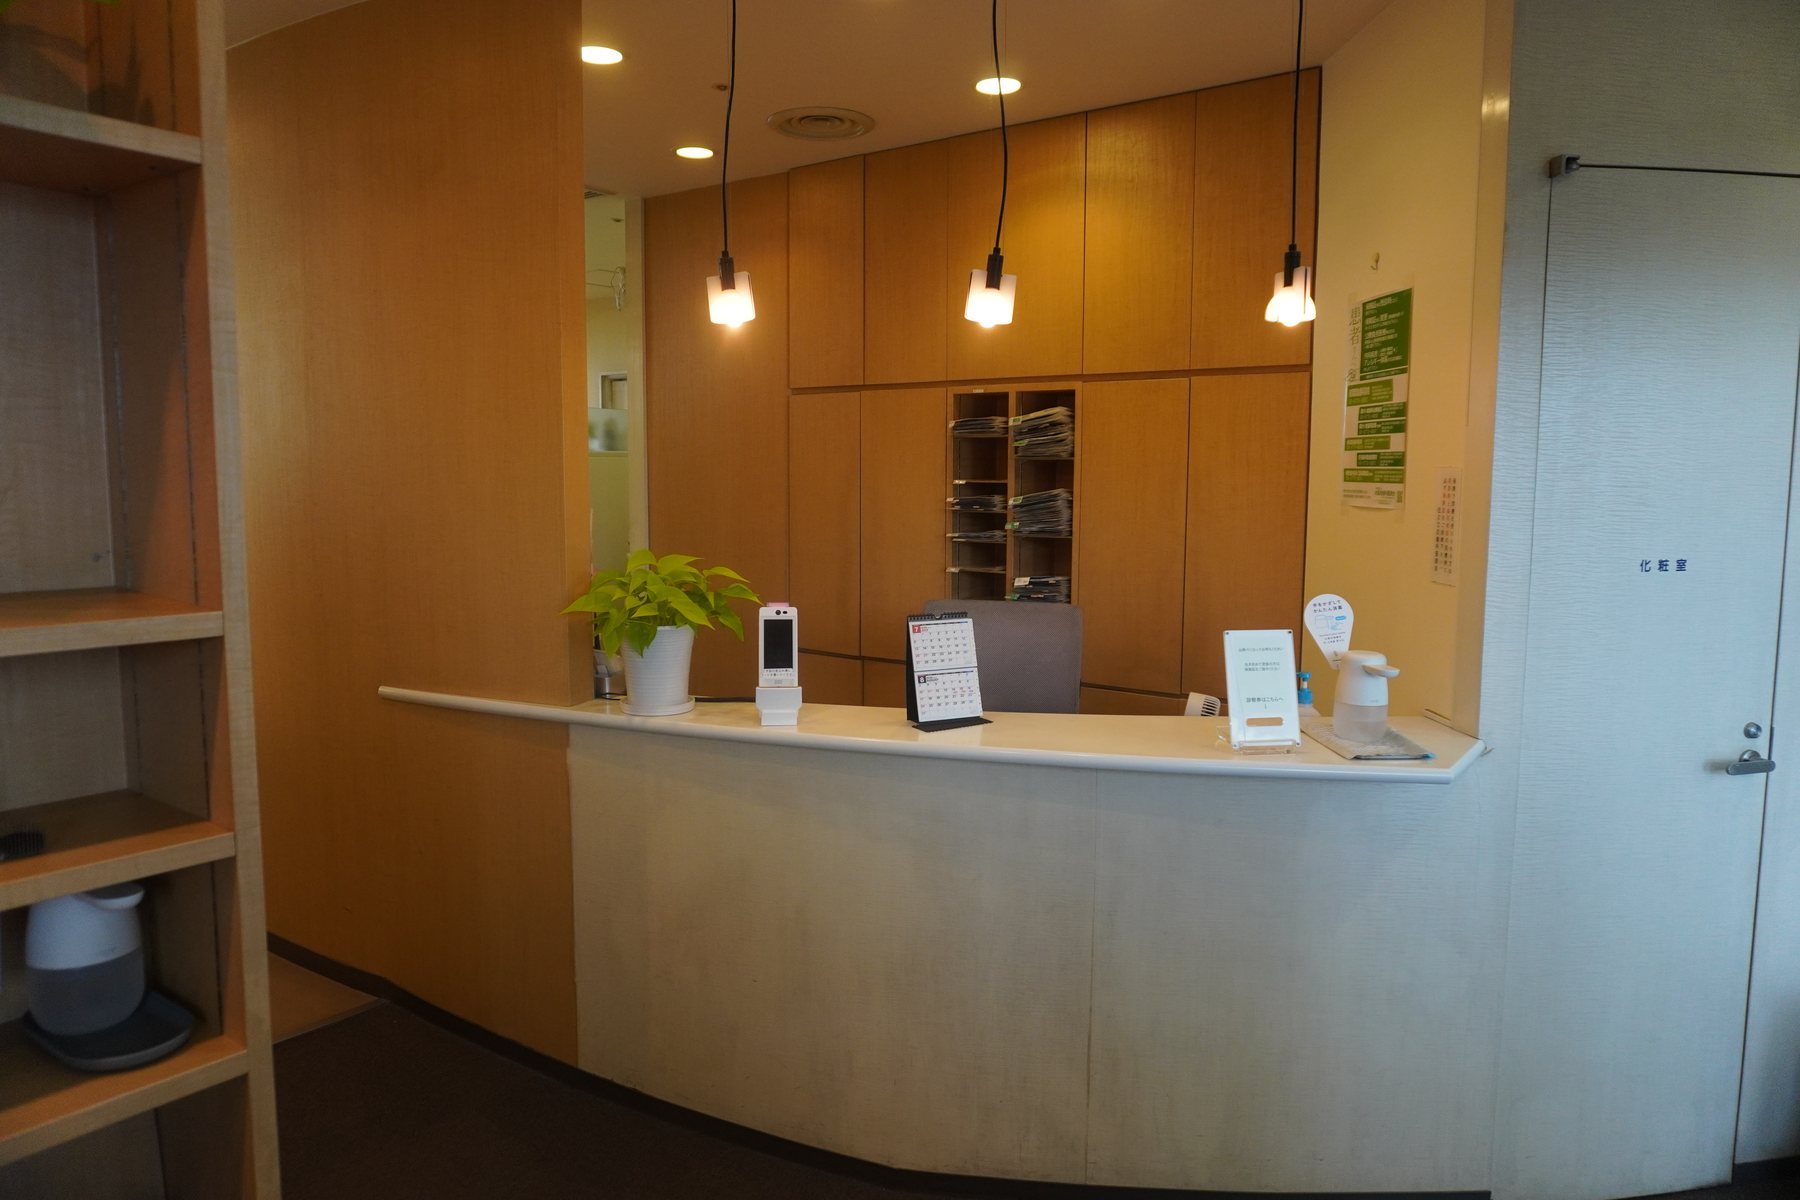
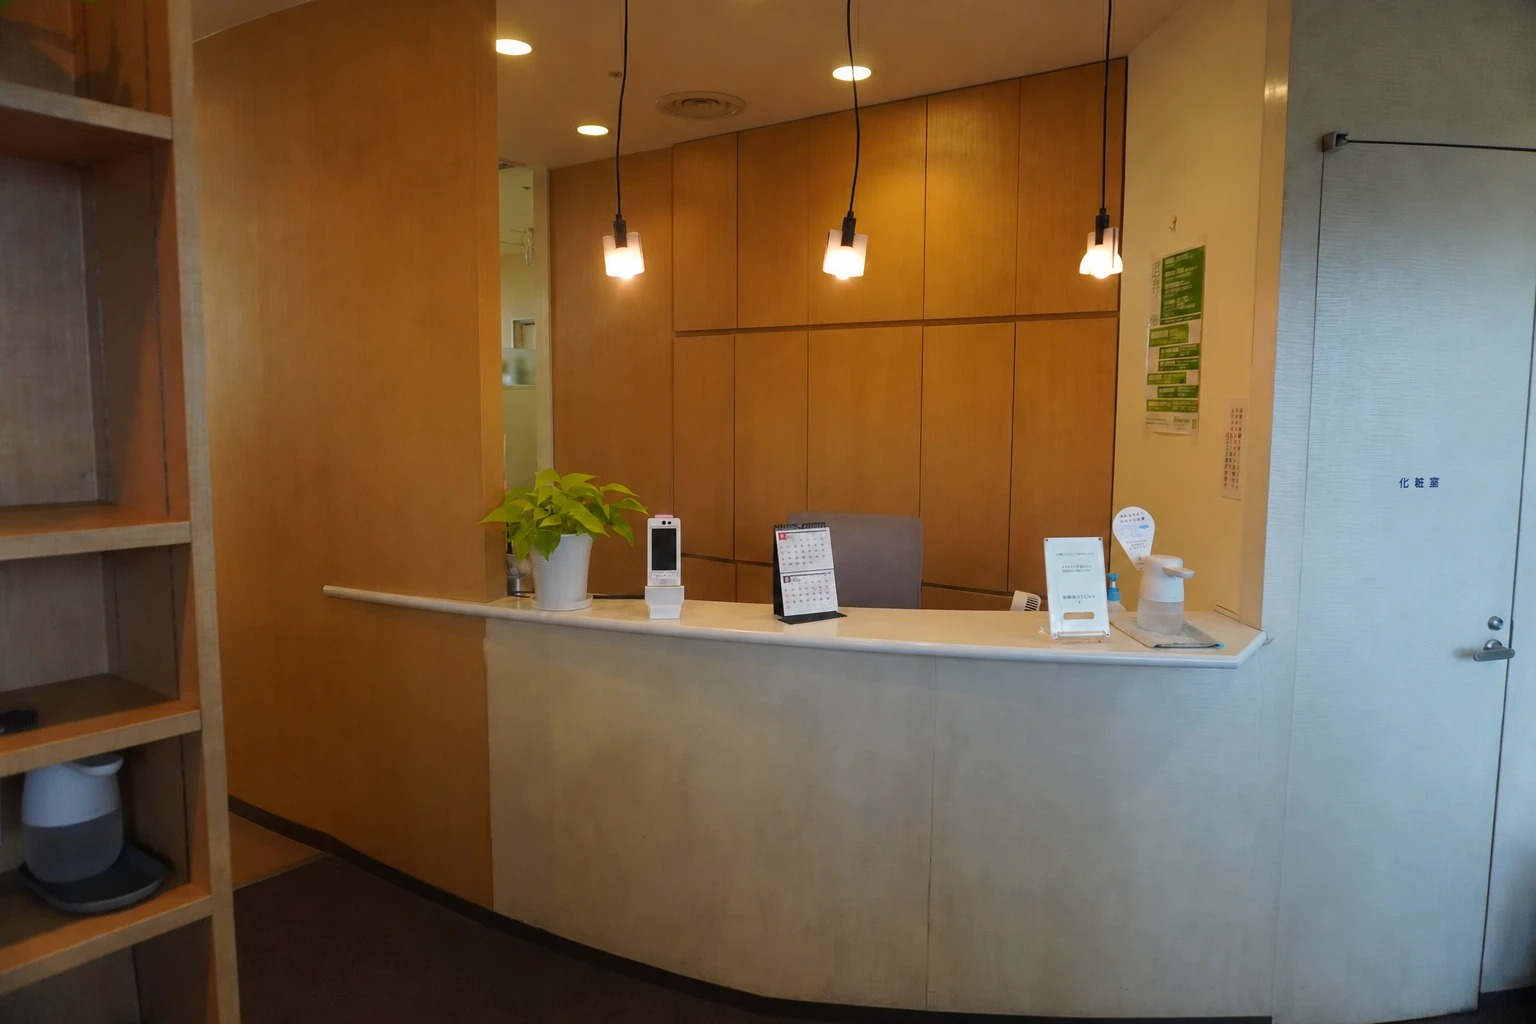
Update reception hero photo to the wider angle client sent

Changed region(s): [[0.5, 0.3125, 0.625, 0.5312]]

diff --git a/index.html b/index.html
@@ -21,7 +21,7 @@
 <link rel="preconnect" href="https://fonts.googleapis.com">
 <link rel="preconnect" href="https://fonts.gstatic.com" crossorigin>
 <link href="https://fonts.googleapis.com/css2?family=Jost:wght@400;500;600&family=Shippori+Mincho:wght@500;600;700&family=Zen+Kaku+Gothic+New:wght@400;500;700&display=swap" rel="stylesheet">
-<link rel="stylesheet" href="assets/css/style.css?v=1788683968">
+<link rel="stylesheet" href="assets/css/style.css?v=1788684398">
 <script type="application/ld+json">
 {"@context":"https://schema.org","@type":"Dentist","name":"中村歯科医院","alternateName":"Nakamura Dental Office",
 "url":"https://nakamura-dental.com/","image":"https://nakamura-dental.com/assets/img/hero-reception.jpg","telephone":"+81-6-6615-6180",
@@ -58,7 +58,7 @@
 <section class="hero" id="top">
   <div class="hero-slides"><div class="slide on"><img src="assets/img/hero-shelf.jpg" alt="中村歯科医院の入口（大阪府咲洲庁舎3F）" style="object-position:center 46%"></div><div class="slide"><img src="assets/img/treatment-03.jpg" alt="中村歯科医院の診療風景" style="object-position:center center" loading="lazy"></div><div class="slide"><img src="assets/img/reception-wide.jpg" alt="中村歯科医院の受付" style="object-position:center center" loading="lazy"></div><div class="slide"><img src="assets/img/instruments.jpg" alt="器具のメンテナンスを行うスタッフ" style="object-position:center center" loading="lazy"></div></div>
   <!-- 街並みシルエット：空を抜いて写真と重ねる -->
-  <div class="hero-skyline" data-tram="assets/img/skyline-silhouette.svg?v=1788683968" aria-hidden="true"></div>
+  <div class="hero-skyline" data-tram="assets/img/skyline-silhouette.svg?v=1788684398" aria-hidden="true"></div>
   <div class="hero-dots"><button aria-label="スライド1" class="on"></button><button aria-label="スライド2"></button><button aria-label="スライド3"></button><button aria-label="スライド4"></button></div>
   <div class="hero-copy">
     <h1 class="hero-vert">あなたの笑顔のために</h1>
@@ -198,6 +198,6 @@
     </div>
   </div>
 </footer>
-<script src="assets/js/main.js?v=1788683968"></script>
+<script src="assets/js/main.js?v=1788684398"></script>
 </body>
 </html>

diff --git a/service-aesthetic.html b/service-aesthetic.html
@@ -21,7 +21,7 @@
 <link rel="preconnect" href="https://fonts.googleapis.com">
 <link rel="preconnect" href="https://fonts.gstatic.com" crossorigin>
 <link href="https://fonts.googleapis.com/css2?family=Jost:wght@400;500;600&family=Shippori+Mincho:wght@500;600;700&family=Zen+Kaku+Gothic+New:wght@400;500;700&display=swap" rel="stylesheet">
-<link rel="stylesheet" href="assets/css/style.css?v=1788683968">
+<link rel="stylesheet" href="assets/css/style.css?v=1788684398">
 </head>
 <body>
 <header class="site-header" id="header">
@@ -110,7 +110,7 @@
   </div>
 </section>
 <section class="tramband">
-  <div class="tram-scene" data-tram="assets/img/tram-scene.svg?v=1788683968" aria-hidden="true"></div>
+  <div class="tram-scene" data-tram="assets/img/tram-scene.svg?v=1788684398" aria-hidden="true"></div>
 </section>
 <section class="cta">
   <div class="wrap">
@@ -137,6 +137,6 @@
     </div>
   </div>
 </footer>
-<script src="assets/js/main.js?v=1788683968"></script>
+<script src="assets/js/main.js?v=1788684398"></script>
 </body>
 </html>

diff --git a/service.html b/service.html
@@ -21,7 +21,7 @@
 <link rel="preconnect" href="https://fonts.googleapis.com">
 <link rel="preconnect" href="https://fonts.gstatic.com" crossorigin>
 <link href="https://fonts.googleapis.com/css2?family=Jost:wght@400;500;600&family=Shippori+Mincho:wght@500;600;700&family=Zen+Kaku+Gothic+New:wght@400;500;700&display=swap" rel="stylesheet">
-<link rel="stylesheet" href="assets/css/style.css?v=1788683968">
+<link rel="stylesheet" href="assets/css/style.css?v=1788684398">
 </head>
 <body>
 <header class="site-header" id="header">
@@ -116,7 +116,7 @@
   </div>
 </section>
 <section class="tramband">
-  <div class="tram-scene" data-tram="assets/img/tram-scene.svg?v=1788683968" aria-hidden="true"></div>
+  <div class="tram-scene" data-tram="assets/img/tram-scene.svg?v=1788684398" aria-hidden="true"></div>
 </section>
 <section class="cta">
   <div class="wrap">
@@ -143,6 +143,6 @@
     </div>
   </div>
 </footer>
-<script src="assets/js/main.js?v=1788683968"></script>
+<script src="assets/js/main.js?v=1788684398"></script>
 </body>
 </html>

diff --git a/price.html b/price.html
@@ -21,7 +21,7 @@
 <link rel="preconnect" href="https://fonts.googleapis.com">
 <link rel="preconnect" href="https://fonts.gstatic.com" crossorigin>
 <link href="https://fonts.googleapis.com/css2?family=Jost:wght@400;500;600&family=Shippori+Mincho:wght@500;600;700&family=Zen+Kaku+Gothic+New:wght@400;500;700&display=swap" rel="stylesheet">
-<link rel="stylesheet" href="assets/css/style.css?v=1788683968">
+<link rel="stylesheet" href="assets/css/style.css?v=1788684398">
 </head>
 <body>
 <header class="site-header" id="header">
@@ -84,7 +84,7 @@
   </div>
 </section>
 <section class="tramband">
-  <div class="tram-scene" data-tram="assets/img/tram-scene.svg?v=1788683968" aria-hidden="true"></div>
+  <div class="tram-scene" data-tram="assets/img/tram-scene.svg?v=1788684398" aria-hidden="true"></div>
 </section>
 <section class="cta">
   <div class="wrap">
@@ -111,6 +111,6 @@
     </div>
   </div>
 </footer>
-<script src="assets/js/main.js?v=1788683968"></script>
+<script src="assets/js/main.js?v=1788684398"></script>
 </body>
 </html>

diff --git a/service-denture.html b/service-denture.html
@@ -21,7 +21,7 @@
 <link rel="preconnect" href="https://fonts.googleapis.com">
 <link rel="preconnect" href="https://fonts.gstatic.com" crossorigin>
 <link href="https://fonts.googleapis.com/css2?family=Jost:wght@400;500;600&family=Shippori+Mincho:wght@500;600;700&family=Zen+Kaku+Gothic+New:wght@400;500;700&display=swap" rel="stylesheet">
-<link rel="stylesheet" href="assets/css/style.css?v=1788683968">
+<link rel="stylesheet" href="assets/css/style.css?v=1788684398">
 </head>
 <body>
 <header class="site-header" id="header">
@@ -86,7 +86,7 @@
   </div>
 </section>
 <section class="tramband">
-  <div class="tram-scene" data-tram="assets/img/tram-scene.svg?v=1788683968" aria-hidden="true"></div>
+  <div class="tram-scene" data-tram="assets/img/tram-scene.svg?v=1788684398" aria-hidden="true"></div>
 </section>
 <section class="cta">
   <div class="wrap">
@@ -113,6 +113,6 @@
     </div>
   </div>
 </footer>
-<script src="assets/js/main.js?v=1788683968"></script>
+<script src="assets/js/main.js?v=1788684398"></script>
 </body>
 </html>

diff --git a/service-implant.html b/service-implant.html
@@ -21,7 +21,7 @@
 <link rel="preconnect" href="https://fonts.googleapis.com">
 <link rel="preconnect" href="https://fonts.gstatic.com" crossorigin>
 <link href="https://fonts.googleapis.com/css2?family=Jost:wght@400;500;600&family=Shippori+Mincho:wght@500;600;700&family=Zen+Kaku+Gothic+New:wght@400;500;700&display=swap" rel="stylesheet">
-<link rel="stylesheet" href="assets/css/style.css?v=1788683968">
+<link rel="stylesheet" href="assets/css/style.css?v=1788684398">
 </head>
 <body>
 <header class="site-header" id="header">
@@ -82,7 +82,7 @@
   </div>
 </section>
 <section class="tramband">
-  <div class="tram-scene" data-tram="assets/img/tram-scene.svg?v=1788683968" aria-hidden="true"></div>
+  <div class="tram-scene" data-tram="assets/img/tram-scene.svg?v=1788684398" aria-hidden="true"></div>
 </section>
 <section class="cta">
   <div class="wrap">
@@ -109,6 +109,6 @@
     </div>
   </div>
 </footer>
-<script src="assets/js/main.js?v=1788683968"></script>
+<script src="assets/js/main.js?v=1788684398"></script>
 </body>
 </html>

diff --git a/service-ortho.html b/service-ortho.html
@@ -21,7 +21,7 @@
 <link rel="preconnect" href="https://fonts.googleapis.com">
 <link rel="preconnect" href="https://fonts.gstatic.com" crossorigin>
 <link href="https://fonts.googleapis.com/css2?family=Jost:wght@400;500;600&family=Shippori+Mincho:wght@500;600;700&family=Zen+Kaku+Gothic+New:wght@400;500;700&display=swap" rel="stylesheet">
-<link rel="stylesheet" href="assets/css/style.css?v=1788683968">
+<link rel="stylesheet" href="assets/css/style.css?v=1788684398">
 </head>
 <body>
 <header class="site-header" id="header">
@@ -85,7 +85,7 @@
   </div>
 </section>
 <section class="tramband">
-  <div class="tram-scene" data-tram="assets/img/tram-scene.svg?v=1788683968" aria-hidden="true"></div>
+  <div class="tram-scene" data-tram="assets/img/tram-scene.svg?v=1788684398" aria-hidden="true"></div>
 </section>
 <section class="cta">
   <div class="wrap">
@@ -112,6 +112,6 @@
     </div>
   </div>
 </footer>
-<script src="assets/js/main.js?v=1788683968"></script>
+<script src="assets/js/main.js?v=1788684398"></script>
 </body>
 </html>

diff --git a/staff.html b/staff.html
@@ -21,7 +21,7 @@
 <link rel="preconnect" href="https://fonts.googleapis.com">
 <link rel="preconnect" href="https://fonts.gstatic.com" crossorigin>
 <link href="https://fonts.googleapis.com/css2?family=Jost:wght@400;500;600&family=Shippori+Mincho:wght@500;600;700&family=Zen+Kaku+Gothic+New:wght@400;500;700&display=swap" rel="stylesheet">
-<link rel="stylesheet" href="assets/css/style.css?v=1788683968">
+<link rel="stylesheet" href="assets/css/style.css?v=1788684398">
 </head>
 <body>
 <header class="site-header" id="header">
@@ -91,7 +91,7 @@
   </div>
 </section>
 <section class="tramband">
-  <div class="tram-scene" data-tram="assets/img/tram-scene.svg?v=1788683968" aria-hidden="true"></div>
+  <div class="tram-scene" data-tram="assets/img/tram-scene.svg?v=1788684398" aria-hidden="true"></div>
 </section>
 <section class="cta">
   <div class="wrap">
@@ -118,6 +118,6 @@
     </div>
   </div>
 </footer>
-<script src="assets/js/main.js?v=1788683968"></script>
+<script src="assets/js/main.js?v=1788684398"></script>
 </body>
 </html>

diff --git a/access.html b/access.html
@@ -21,7 +21,7 @@
 <link rel="preconnect" href="https://fonts.googleapis.com">
 <link rel="preconnect" href="https://fonts.gstatic.com" crossorigin>
 <link href="https://fonts.googleapis.com/css2?family=Jost:wght@400;500;600&family=Shippori+Mincho:wght@500;600;700&family=Zen+Kaku+Gothic+New:wght@400;500;700&display=swap" rel="stylesheet">
-<link rel="stylesheet" href="assets/css/style.css?v=1788683968">
+<link rel="stylesheet" href="assets/css/style.css?v=1788684398">
 </head>
 <body>
 <header class="site-header" id="header">
@@ -65,7 +65,7 @@
   </div>
 </section>
 <section class="tramband">
-  <div class="tram-scene" data-tram="assets/img/tram-scene.svg?v=1788683968" aria-hidden="true"></div>
+  <div class="tram-scene" data-tram="assets/img/tram-scene.svg?v=1788684398" aria-hidden="true"></div>
 </section>
 <section class="cta">
   <div class="wrap">
@@ -92,6 +92,6 @@
     </div>
   </div>
 </footer>
-<script src="assets/js/main.js?v=1788683968"></script>
+<script src="assets/js/main.js?v=1788684398"></script>
 </body>
 </html>
